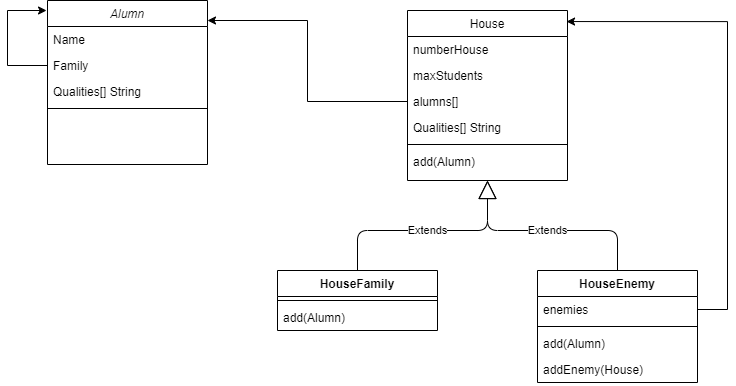
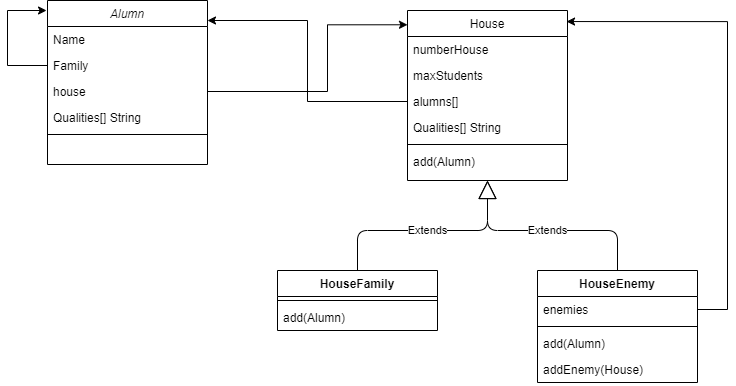
Se corrigio ej5p5 y ej2p5

Changed region(s): [[0.0625, 0.2798, 0.2188, 0.342], [0.4375, 0.0622, 0.5625, 0.0933], [0.0625, 0.2176, 0.1875, 0.2487]]

diff --git a/Practico 5/src/ejercicio3/Cooperativa.java b/Practico 5/src/ejercicio3/Cooperativa.java
@@ -8,8 +8,8 @@ public class Cooperativa {
 	private int cuit;
 	private ArrayList<Lote> lotes = new ArrayList<Lote>();
 	private ArrayList<Cereal> cereales = new ArrayList<Cereal>();
-	private ArrayList<Mineral> mineralesPrimarios = new ArrayList<Mineral>();
-	private ArrayList<Mineral> mineralesSecundarios = new ArrayList<Mineral>();
+	private ArrayList<String> mineralesPrimarios = new ArrayList<String>();
+	//private ArrayList<String> mineralesSecundarios = new ArrayList<String>();
 
 	public Cooperativa(String nombre) {
 		this.nombre = nombre;
@@ -36,67 +36,36 @@ public class Cooperativa {
 		this.cuit = cuit;
 	}
 
-	public ArrayList<Lote> getLotes() {
-		return lotes;
-	}
-
-	public void setLotes(ArrayList<Lote> lotes) {
-		this.lotes = lotes;
-	}
-
-	public ArrayList<Cereal> getMinerales() {
-		return cereales;
-	}
-
-	public void setMinerales(ArrayList<Cereal> cereales) {
-		this.cereales = cereales;
-	}
-
-	public ArrayList<Mineral> getMineralesPrimarios() {
-		return mineralesPrimarios;
-	}
-
-	public void setMineralesPrimarios(ArrayList<Mineral> mineralesPrimarios) {
-		this.mineralesPrimarios = mineralesPrimarios;
-	}
-
-	public ArrayList<Mineral> getMineralesSecundarios() {
-		return mineralesSecundarios;
-	}
-
-	public void setMineralesSecundarios(ArrayList<Mineral> mineralesSecundarios) {
-		this.mineralesSecundarios = mineralesSecundarios;
-	}
-
 	public ArrayList<Cereal> cerealEnLote(Lote lote) {
 		ArrayList<Cereal> cerealesOk = new ArrayList<Cereal>();
 		for (int i = 0; i < this.cereales.size(); i++) {
+			/* NO HACER
 			if(contieneMinerales(lote, cereales.get(i))) {
+				cerealesOk.add(cereales.get(i));
+			}
+			*/
+			if(cereales.get(i).sirveParaLote(lote)) {
 				cerealesOk.add(cereales.get(i));
 			}
 		}
 		return cerealesOk;
 	}
 	
-	private boolean contieneMinerales(Lote lote, Cereal cereal) {
-		return lote.getMinerales().containsAll(cereal.getMinerales());
-	}
-	
 	public ArrayList<Lote> lotesParaCereal(Cereal cereal){
 		ArrayList<Lote> lotesOk = new ArrayList<Lote>();
 		for (int i = 0; i < this.lotes.size(); i++) {
-			if(contieneMinerales(lotes.get(i), cereal)) {
-				lotesOk.add(lotes.get(i));
+			if (lotes.get(i).sirveParaCereal(cereal)) {
+				lotesOk.add(lotesOk.get(i));
 			}
+			
 		}
 		return lotesOk;
 	}
 	
-	public boolean lotePrimario(Lote lote) {
-		return lote.getMinerales().containsAll(mineralesPrimarios);
-	}
-	
-	public boolean loteSecundario(Lote lote) {
-		return !(lotePrimario(lote));
+	public String tipoLote(Lote lote) {
+		if (lote.esEspecial(mineralesPrimarios)) {
+			return "Especial";
+		}
+		return "Comun";
 	}
 }

diff --git a/Practico 5/src/ejercicio3/Lote.java b/Practico 5/src/ejercicio3/Lote.java
@@ -5,12 +5,13 @@ import java.util.ArrayList;
 public class Lote {
 
 	private int numeroLote;
-	private ArrayList<Mineral> minerales = new ArrayList<Mineral>();
+	private ArrayList<String> minerales;
 	private double superficie;
 
 	public Lote(int numeroLote, double superficie) {
 		this.numeroLote = numeroLote;
 		this.superficie = superficie;
+		minerales = new ArrayList<String>();
 	}
 
 	public int getNumeroLote() {
@@ -21,14 +22,6 @@ public class Lote {
 		this.numeroLote = numeroLote;
 	}
 
-	public ArrayList<Mineral> getMinerales() {
-		return minerales;
-	}
-
-	public void setMinerales(ArrayList<Mineral> minerales) {
-		this.minerales = minerales;
-	}
-
 	public double getSuperficie() {
 		return superficie;
 	}
@@ -37,8 +30,37 @@ public class Lote {
 		this.superficie = superficie;
 	}
 	
-	public void addMineral(Mineral mineral) {
-		minerales.add(mineral);
+	public void addMineral(String mineral) {
+		if (!(minerales.contains(mineral.toLowerCase()))) {
+			minerales.add(mineral);
+		}
 	}
+	
+	public void removeMineral(String mineral) {
+		minerales.remove(mineral.toLowerCase());
+	}
+
+	public boolean contieneMineral(String string) {
+		// TODO Auto-generated method stub
+		return minerales.contains(string.toLowerCase());
+	}
+
+	public boolean sirveParaCereal(Cereal cereal) {
+		// TODO Auto-generated method stub
+		for (int i = 0; i < minerales.size(); i++) {
+			if(!(cereal.contieneMineral(minerales.get(i)))) {
+				return false;
+			}
+			
+		}
+		return true;
+	}
+
+	public boolean esEspecial(ArrayList<String> mineralesPrimarios) {
+		// TODO Auto-generated method stub
+		return minerales.containsAll(mineralesPrimarios);
+	}
+	
+	
 
 }

diff --git a/Practico 5/src/ejercicio2v2/Alumno.java b/Practico 5/src/ejercicio2v2/Alumno.java
@@ -5,6 +5,7 @@ import java.util.ArrayList;
 public class Alumno {
 	
 	private String nombre;
+	private Casa house;
 	private ArrayList<Alumno> familia = new ArrayList<Alumno>();
 	private ArrayList<String> cualidades = new ArrayList<String>();
 	
@@ -20,8 +21,12 @@ public class Alumno {
 		this.nombre = nombre;
 	}
 	
-	public ArrayList<String> getCualidades() {
-		return cualidades;
+	public Casa getHouse() {
+		return house;
+	}
+
+	public void setHouse(Casa house) {
+		this.house = house;
 	}
 
 	public void agregarCualidad(String cualidad) {
@@ -31,10 +36,6 @@ public class Alumno {
 	public void eliminarCualidad(String cualidad) {
 		cualidades.remove(cualidad);
 	}
-	
-	public ArrayList<Alumno> getFamilia() {
-		return familia;
-	}
 
 	public void agregarFamiliar(Alumno alumno) {
 		familia.add(alumno);
@@ -42,5 +43,18 @@ public class Alumno {
 	
 	public void eliminarFamiliar(Alumno alumno) {
 		familia.remove(alumno);
+	}
+
+	public boolean contieneCualidades(ArrayList<String> cualidadesNecesarias) {
+		return cualidades.containsAll(cualidadesNecesarias);
+	}
+
+	public boolean familiarEnCasa(CasaFamiliar casaFamiliar) {
+		for (int i = 0; i < familia.size(); i++) {
+			if (familia.get(i).house == casaFamiliar) {
+				return true;
+			}
+		}
+		return false;
 	}
 }

diff --git a/Practico 5/src/ejercicio2v2/Casa.java b/Practico 5/src/ejercicio2v2/Casa.java
@@ -7,7 +7,7 @@ public class Casa {
 	private String nombre;
 	private int maximoEstudiantes;
 	private ArrayList<Alumno> alumnos = new ArrayList<Alumno>();
-	private ArrayList<String> cualidades = new ArrayList<String>();
+	private ArrayList<String> cualidadesNecesarias = new ArrayList<String>();
 	
 	public Casa(String nombre, int maximoEstudiantes) {
 		this.nombre = nombre;
@@ -31,17 +31,13 @@ public class Casa {
 	}
 	
 	public void agregarCualidad(String cualidad) {
-		cualidades.add(cualidad);
+		cualidadesNecesarias.add(cualidad);
 	}
 	
 	public void eliminarCualidad(String cualidad) {
-		cualidades.remove(cualidad);
+		cualidadesNecesarias.remove(cualidad);
 	}
 		
-	public ArrayList<Alumno> getAlumnos() {
-		return alumnos;
-	}
-	
 	public boolean agregarAlumno(Alumno alumno) {
 		if (permiteAlumno(alumno)) {
 			alumnos.add(alumno);
@@ -51,7 +47,7 @@ public class Casa {
 	}
 	
 	protected boolean permiteAlumno(Alumno alumno) {
-		return (maximoEstudiantes < alumnos.size() && cualidades.containsAll(alumno.getCualidades()));
+		return (maximoEstudiantes < alumnos.size() && alumno.contieneCualidades(cualidadesNecesarias));
 	}
 	
 }

diff --git a/Practico 5/src/ejercicio3/Cereal.java b/Practico 5/src/ejercicio3/Cereal.java
@@ -5,10 +5,11 @@ import java.util.ArrayList;
 public class Cereal {
 
 	private String name;
-	private ArrayList<Mineral> minerales = new ArrayList<Mineral>();
-
+	private ArrayList<String> minerales;
+	
 	public Cereal(String name) {
 		this.name = name;
+		minerales = new ArrayList<String>();
 	}
 	
 	public String getName() {
@@ -19,12 +20,28 @@ public class Cereal {
 		this.name = name;
 	}
 
-	public ArrayList<Mineral> getMinerales() {
-		return minerales;
+	public void addMineral(String mineral) {
+		if (!(minerales.contains(mineral.toLowerCase()))) {
+			minerales.add(mineral.toLowerCase());
+		}
+	}
+	
+	public void removeMineral(String mineral) {
+		minerales.remove(mineral.toLowerCase());
+	}
+	
+	public boolean sirveParaLote(Lote lote) {
+		for (int i = 0; i < minerales.size(); i++) {
+			if(!(lote.contieneMineral(minerales.get(i).toLowerCase()))) {
+				return false;
+			}
+		}
+		return true;
 	}
 
-	public void addMineral(Mineral mineral) {
-		minerales.add(mineral);
+	public boolean contieneMineral(String mineral) {
+		// TODO Auto-generated method stub
+		return minerales.contains(mineral.toLowerCase());
 	}
 
 }

diff --git a/Practico 5/src/ejercicio2v2/CasaFamiliar.java b/Practico 5/src/ejercicio2v2/CasaFamiliar.java
@@ -10,27 +10,8 @@ public class CasaFamiliar extends Casa{
 		return (tieneFamiliar(alumno) && super.agregarAlumno(alumno));
 	}
 	
-	/*
 	private boolean tieneFamiliar(Alumno alumno) {
-		for (int i = 0; i < alumno.getFamilia().size(); i++) {
-			if (this.getAlumnos().contains(alumno.getFamilia().get(i))) {
-				return true;
-			}
-		}
-		return false;
-	}
-	*/
-	
-	private boolean tieneFamiliar(Alumno alumno) {
-		boolean encontro = false;
-		int i = 0;
-		while (!(encontro) && i < alumno.getFamilia().size()) {
-			if (getAlumnos().contains(alumno.getFamilia().get(i))) {
-				encontro = true;
-			}
-			i++;
-		}
-		return encontro;
+		return alumno.familiarEnCasa(this);
 	}
 	
 }

diff --git a/Practico 5/src/ejercicio3/Pastura.java b/Practico 5/src/ejercicio3/Pastura.java
@@ -21,5 +21,8 @@ public class Pastura extends Cereal {
 		this.superficieMinima = superficieMinima;
 	}
 	
+	public boolean sirveParaLote(Lote lote) {
+		return ((superficieMinima > lote.getSuperficie()) && super.sirveParaLote(lote));
+	}
 	
 }
